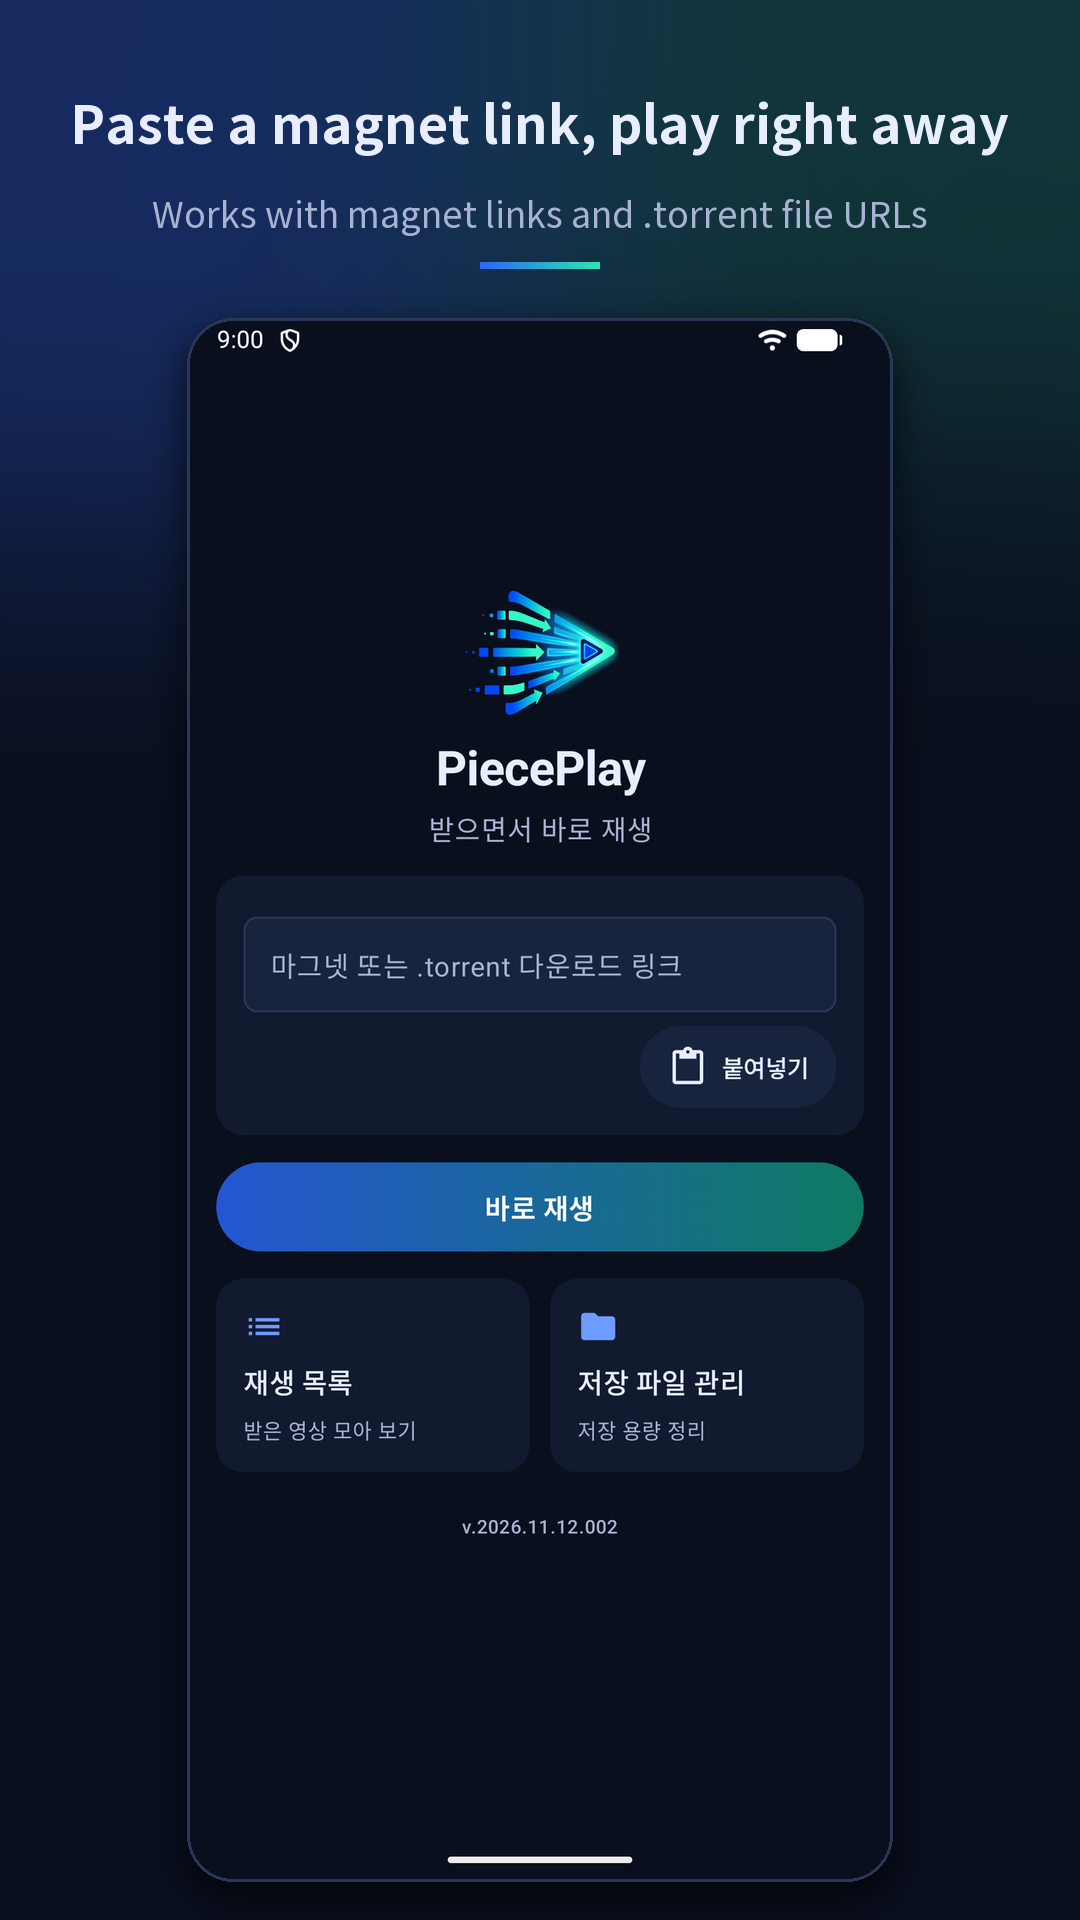
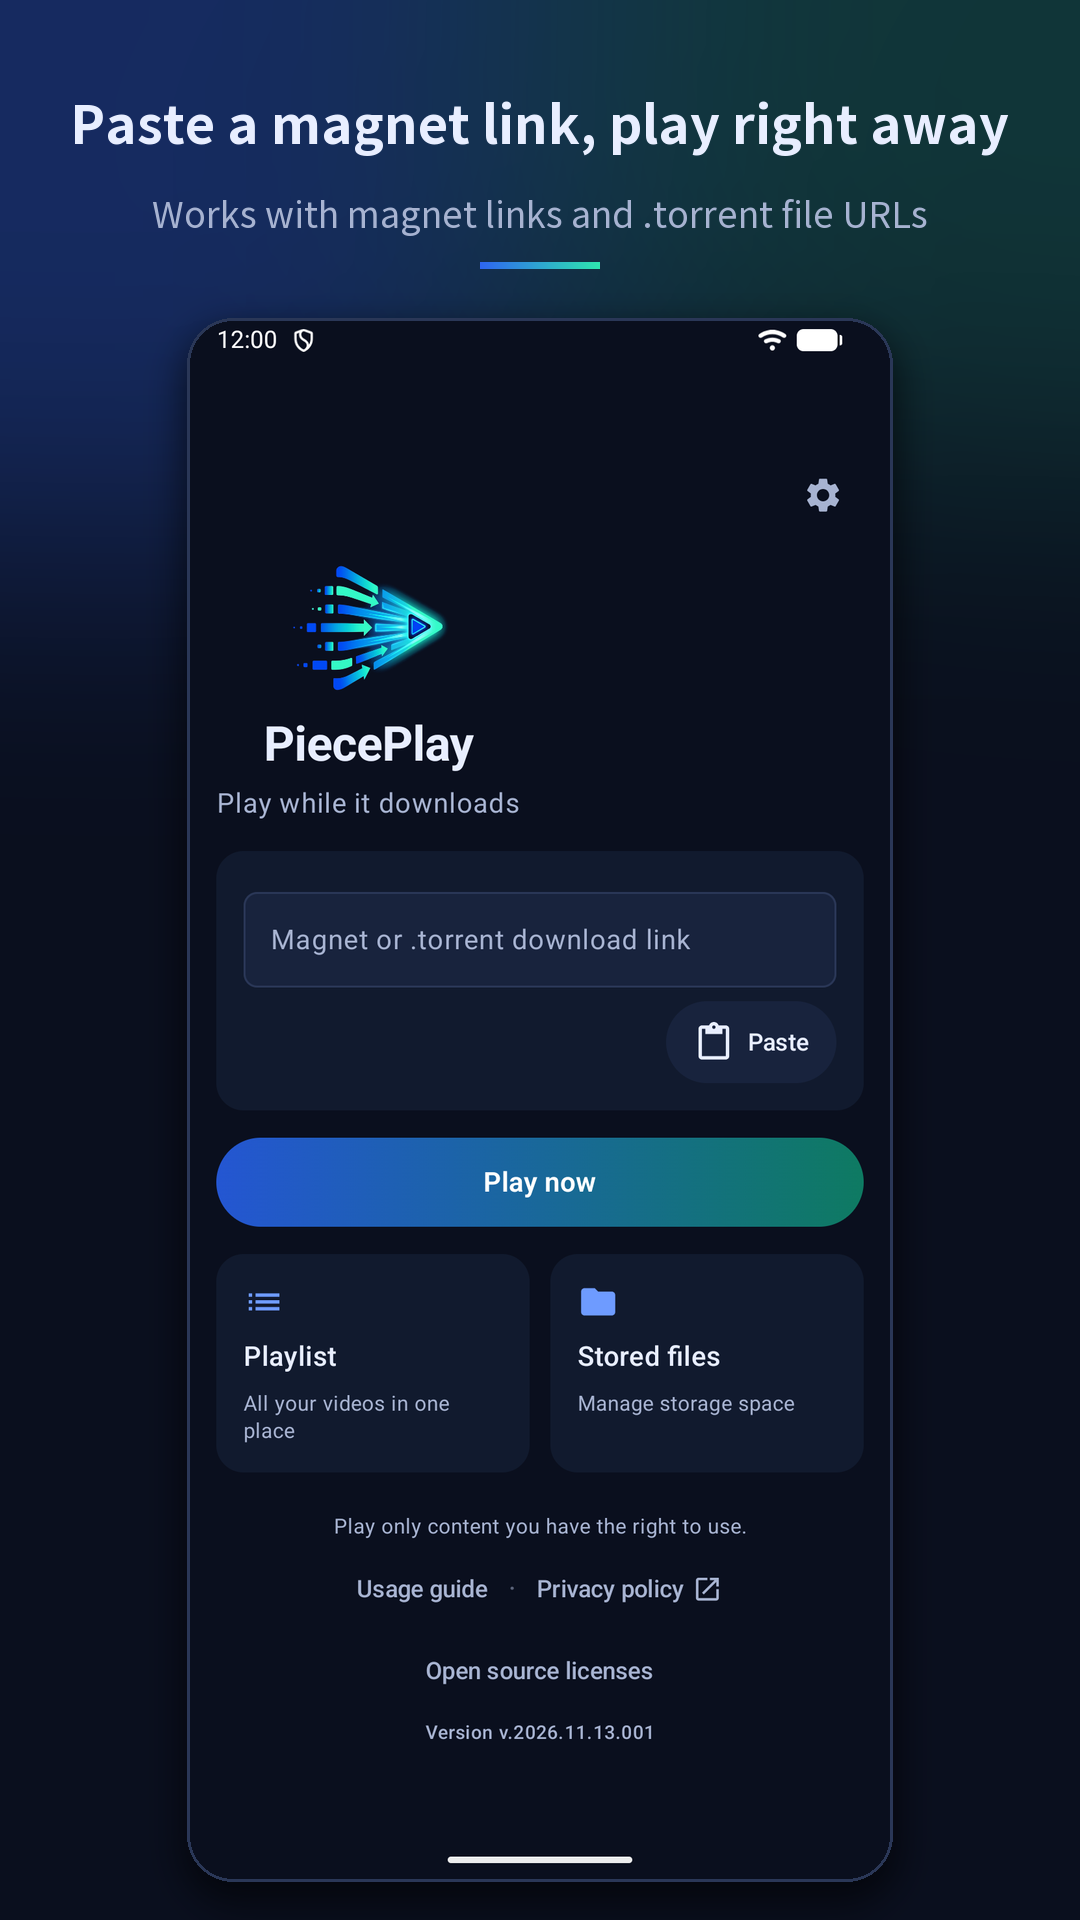
영어 스토어 스크린샷을 영어 UI로 재촬영: 휴대전화·7인치·10인치 각 8장 (Refs #144)
- en-US 01~06은 한국어판과 같은 장면, 07 링크 확인 시트, 08 자막 선택 추가
- 원본은 raw-en-US/, screens.py에 언어별 원본 폴더와 추가 장면
- README, en-US 등록정보, 1차 글로벌 체크리스트 2절 갱신

diff --git a/launch/store-assets/tools/screens.py b/launch/store-assets/tools/screens.py
@@ -35,6 +35,21 @@ CAPTIONS = {'ko-KR': {
     'player_seek': ('Seek, and it downloads from there', '10-second skip · zoom in · zoom out'),
     'playlist': ('Pick up where you left off', 'Your last 50 links, encrypted on your device'),
     'stored': ('No uploads. History stays on device', 'Browse saved files by type and delete them'),
+    'open_link': ('Open links from other apps', 'Play now or save for later'),
+    'subtitles': ('Choose your subtitles', 'Pick subtitle files that come with the video'),
+}}
+
+# 언어별 원본 폴더 이름(대상 폴더 아래). 없으면 raw. en-US 는 영어 UI 로 다시 찍은 원본을 쓴다(#144).
+RAW_DIRS = {'en-US': 'raw-en-US'}
+
+# 언어별 추가 장면(기본 6장 뒤에 붙는다): 대상 -> [(출력 파일, 원본 파일, 캡션 키, 캔버스 W, H)]
+EXTRA = {'en-US': {
+    'phone': [('07_open_link.png', 'open-link.png', 'open_link', 1080, 1920),
+              ('08_subtitles.png', 'subtitles.png', 'subtitles', 1080, 1920)],
+    'tab7': [('07_open_link.png', 'open-link.png', 'open_link', 1080, 1920),
+             ('08_subtitles.png', 'subtitles.png', 'subtitles', 1080, 1920)],
+    'tab10': [('07_open_link.png', 'open-link.png', 'open_link', 2560, 1440),
+              ('08_subtitles.png', 'subtitles.png', 'subtitles', 2560, 1440)],
 }}
 
 # 대상별: 출력 폴더, 원본 폴더, [(출력 파일, 원본 파일, 캡션 키, 캔버스 W, H)]
@@ -146,7 +161,8 @@ def main():
         out_tpl, raw_dir, items = TARGETS[name]
         out_dir = out_tpl.format(lang=lang)
         os.makedirs(os.path.join(root, out_dir), exist_ok=True)
-        for out, raw, key, W, H in items:
+        raw_dir = os.path.join(os.path.dirname(raw_dir), RAW_DIRS.get(lang, 'raw'))
+        for out, raw, key, W, H in items + EXTRA.get(lang, {}).get(name, []):
             src = os.path.join(root, raw_dir, raw)
             if not os.path.exists(src):
                 print('skip (no raw):', src)

diff --git a/launch/store-assets/README.md b/launch/store-assets/README.md
@@ -11,13 +11,14 @@ Play Console > 스토어 등록정보 > 기본 스토어 등록정보(또는 ko-
 | 앱 아이콘 | `1_Play_Store_Assets/app_icon_512x512.png` | 같은 파일 | 512x512 PNG | 512x512, 32비트 PNG, 1MB 이하, 필수. 지금 Console 아이콘과 같아 그대로 둔다 |
 | 그래픽 이미지 | `1_Play_Store_Assets/feature_graphic_1024x500_ko-KR.png` | `1_Play_Store_Assets/feature_graphic_1024x500_en-US.png` | 1024x500 PNG, 알파 없음 | 1024x500, JPEG 또는 24비트 PNG(알파 없음), 필수 |
 | 동영상 | `7_Promo_Video/PiecePlay_promo_ko-KR.mp4`를 YouTube에 올린 URL | `7_Promo_Video/PiecePlay_promo_en-US.mp4`를 올린 URL | 1920x1080, 30초 | YouTube 동영상 URL만, 공개 또는 일부공개, 광고 끔. 업로드 방법은 `7_Promo_Video/README.md` |
-| 휴대전화 스크린샷 | `4_Play_Store_Screenshots/ko-KR/01~06` | `4_Play_Store_Screenshots/en-US/01~06` | 1080x1920, `03`만 1920x1080 | 2~8장, 변 320~3840px, 긴 변 ≤ 짧은 변 x2, 추천 노출은 1080px 이상 4장 이상 |
-| 7인치 태블릿 | `5_Tablet_7in/ko-KR/01~06` | `5_Tablet_7in/en-US/01~06` | 1080x1920, `03`만 1920x1080 | 대화면: 변 1080~7680px, 9:16 또는 16:9, 4장 이상, 선택 |
-| 10인치 태블릿 | `6_Tablet_10in/ko-KR/01~06` | `6_Tablet_10in/en-US/01~06` | 2560x1440 | 위와 같음 |
+| 휴대전화 스크린샷 | `4_Play_Store_Screenshots/ko-KR/01~06` | `4_Play_Store_Screenshots/en-US/01~08` | 1080x1920, `03`만 1920x1080 | 2~8장, 변 320~3840px, 긴 변 ≤ 짧은 변 x2, 추천 노출은 1080px 이상 4장 이상 |
+| 7인치 태블릿 | `5_Tablet_7in/ko-KR/01~06` | `5_Tablet_7in/en-US/01~08` | 1080x1920, `03`만 1920x1080 | 대화면: 변 1080~7680px, 9:16 또는 16:9, 4장 이상, 선택 |
+| 10인치 태블릿 | `6_Tablet_10in/ko-KR/01~06` | `6_Tablet_10in/en-US/01~08` | 2560x1440 | 위와 같음 |
 | Chromebook | 비움 | 비움 | | 위와 같음, 선택 |
 
 - 현재 Console 기본 등록정보(en-US)에는 로고만 있는 옛 그래픽 이미지와 옛 이름 "Torrent Stream Player"의 휴대전화 스크린샷 2장이 있다. 둘 다 위 en-US 파일로 바꾼다(옛 스크린샷 2장은 삭제).
-- 영어 스크린샷도 앱 화면은 한국어다(앱이 한국어만 지원). 영어 설명에 그 사실을 적는다(`launch/listing/en-US.md`).
+- 영어(en-US) 스크린샷은 2026-11-14에 영어 UI로 다시 찍었다(#144, 아래 "영어 UI 재촬영"). 한국어(ko-KR) 스크린샷은 그대로다(예전 빌드 화면).
+- 영어는 8장이다. `01~06`은 한국어와 같은 장면·순서이고 `07`(다른 앱에서 링크 열기), `08`(자막 선택)을 더했다. Play 휴대전화 한도가 8장이다. 6장만 올리려면 `07`, `08`을 빼면 된다.
 
 규격 출처: [Play Console 고객센터 "미리보기 애셋 추가"](https://support.google.com/googleplay/android-developer/answer/9866151?hl=ko) (2026-11-12 확인). 그 밖의 요구: 실제 앱 화면을 보여 줄 것, "지금 다운로드" 같은 행동 유도 문구 금지, 문구가 이미지의 20%를 넘지 않을 것, 각 애셋에 140자 이하 대체 텍스트 권장.
 
@@ -47,7 +48,11 @@ Play Console > 스토어 등록정보 > 기본 스토어 등록정보(또는 ko-
 | 4 | Seek, and it downloads from there | 10-second skip · zoom in · zoom out |
 | 5 | Pick up where you left off | Your last 50 links, encrypted on your device |
 | 6 | No uploads. History stays on device | Browse saved files by type and delete them |
+| 7 (영어만) | Open links from other apps | Play now or save for later |
+| 8 (영어만) | Choose your subtitles | Pick subtitle files that come with the video |
 
+- 7·8번 캡션은 launch가 등록정보 문구(`launch/listing/en-US.md`의 "Open links from other apps", "Subtitles" 단락)에서 따 왔다. marketing 검토(`marketing:brand-review`)는 아직 거치지 않았다.
+- 4번 보조 문구의 zoom in · zoom out은 지금 빌드에서 재생 화면 더보기(⋮) 메뉴 안에 있어 화면에 바로 보이지는 않는다(기능은 있다).
 - 예전 4번 보조 문구 "10초 이동 · 확대 · 배속 조절"의 배속 조절은 앱에 없는 기능이라 뺐다.
 - 3번 "재생 중에는 광고 없이"는 사실이다(배너는 메인·재생 목록, 전면 광고는 재생 종료·완료 때만). 광고 정책이 바뀌면 이 캡션도 바꿔야 한다. 이 표현을 쓸지는 `marketing/aso/ko-KR.md` "결정 필요" 2번으로 PM이 정한다.
 - 그래픽 이미지: 한국어 "받으면서 바로 재생" / "다 받기 전에 재생하는 토렌트 플레이어", 영어 "Play while it downloads" / "Paste a magnet link and play right away". 앱 이름 `PiecePlay - 토렌트 플레이어`와 같은 키워드를 쓰고, "바로"가 두 줄에 겹치던 것을 고쳤다.
@@ -59,6 +64,24 @@ Play Console > 스토어 등록정보 > 기본 스토어 등록정보(또는 ko-
 | `4_Play_Store_Screenshots/raw/` | emulator-5554, 1080x2400 420dpi | v.2026.11.12.002 디버그 (#49) | 이번에 다시 찍지 않았다 |
 | `5_Tablet_7in/raw/` | AVD `Tablet_7in`(Nexus 7 2013 규격), 1200x1920 320dpi, Android 37 | v.2026.11.12.003 디버그 (main 5c8c305) | 세로, 재생만 가로 하나 |
 | `6_Tablet_10in/raw/` | AVD `Tablet_10in`(Nexus 10 규격), 2560x1600(가로) 320dpi, Android 37 | 같음 | 모두 가로 |
+
+### 영어 UI 재촬영 (2026-11-14, #144)
+
+| 폴더 | 기기 | 빌드 |
+|---|---|---|
+| `4_Play_Store_Screenshots/raw-en-US/` | emulator-5554(AVD `Medium_Phone`), 1080x2400 420dpi, 시스템 언어 en-US | v.2026.11.13.001 디버그 (main 667c06e) |
+| `5_Tablet_7in/raw-en-US/` | 같은 에뮬레이터에 `wm size 1200x1920`, `wm density 320` | 같음 |
+| `6_Tablet_10in/raw-en-US/` | 같은 에뮬레이터에 `wm size 1600x2560`, `wm density 320`, `wm user-rotation lock 1`(가로 2560x1600) | 같음 |
+
+- 원본 파일: `main`, `preparing`, `player-landscape`(10인치는 `player`), `player`(10인치는 `player-seek`), `playlist`, `stored-files`, `open-link`, `subtitles`.
+- 영상: 준비·가로 재생·자막은 Sintel, 이동 장면은 Tears of Steel(10인치는 Sintel), 재생 목록·저장 파일에 Big Buck Bunny. 링크 확인 시트의 마그넷은 Tears of Steel(휴대전화)·Cosmos Laundromat(태블릿)이다. 모두 Blender Foundation 오픈 무비(CC BY).
+- 테스트 광고 배너를 피하는 방법은 예전과 같다: 메인·재생 목록·저장 파일·링크 확인 시트는 와이파이·데이터를 끄고 앱을 새로 열어 찍었다. 재생·준비 화면에는 원래 광고가 없다.
+- 7인치(sw600dp)는 앱의 가로 전환 버튼이 아니라 기기 회전(`wm user-rotation lock 1`)으로 가로 재생을 찍었다.
+- 7인치 `preparing.png`는 데모 모드를 다시 걸기 전에 찍어 상태 표시줄에 와이파이 아이콘이 두 개였다. 상태 표시줄 오른쪽 아이콘 영역(240x48px)만 같은 빌드의 7인치 `main.png` 것으로 덮었다. 앱 화면 영역은 손대지 않았다.
+- 메인 화면의 로고·앱 이름·태그라인이 가운데가 아니라 왼쪽으로 치우쳐 있다. 지금 main 빌드의 실제 화면이다(`MainScreen.kt`에서 톱니 줄과 로고 묶음 Column에 가로 정렬이 없다, #128 이후). 앱이 고쳐지면 `01_main`과 `07_open_link`를 다시 찍는다.
+- 찍은 뒤 에뮬레이터는 되돌렸다(`wm size reset`, `wm density reset`, 회전 자동, 데모 모드 종료, 앱 제거).
+
+### 한국어 원본(예전)
 
 - 상태 표시줄은 데모 모드(12:00, 와이파이·배터리 가득, 알림 숨김)로 찍었다.
 - 메인·재생 목록·저장 파일 관리는 와이파이·데이터를 끄고 앱을 다시 열어 찍었다. 디버그 빌드의 테스트 광고 배너가 들어가지 않게 하려는 것이다(릴리스 빌드에서는 메인·재생 목록 하단에 배너가 나온다).
@@ -77,5 +100,5 @@ Play Console > 스토어 등록정보 > 기본 스토어 등록정보(또는 ko-
 
 `tools/`의 스크립트(Python + Pillow, Windows의 Noto Sans KR 가변 글꼴 `NotoSansKR-VF.ttf`. 맑은 고딕은 작은 크기에서 "받"이 깨져 쓰지 않는다)로 만든다. Pillow가 없으면 `uv run --no-project --with pillow python ...`로 실행한다.
 
-- `screens.py <store-assets 폴더> <ko-KR|en-US|all> [phone|tab7|tab10]`: 각 `raw/` 원본으로 휴대전화·7인치·10인치 스크린샷을 만든다. 캡션과 파일 대응은 스크립트 위쪽 `CAPTIONS`, `TARGETS`에 있다. 원본은 비율을 유지한 채 틀 안에 맞춘다.
+- `screens.py <store-assets 폴더> <ko-KR|en-US|all> [phone|tab7|tab10]`: 각 `raw/` 원본(en-US는 `raw-en-US/`, 스크립트의 `RAW_DIRS`)으로 휴대전화·7인치·10인치 스크린샷을 만든다. 캡션과 파일 대응은 스크립트 위쪽 `CAPTIONS`, `TARGETS`, `EXTRA`(언어별 추가 장면)에 있다. 원본은 비율을 유지한 채 틀 안에 맞춘다.
 - `feature.py <적응형 아이콘 전경 png> <출력> [ko-KR|en-US]`: 그래픽 이미지(`2_Android_Adaptive_Icon/ic_launcher_foreground.png` 사용)

diff --git a/launch/releases/global-phase1-checklist.md b/launch/releases/global-phase1-checklist.md
@@ -16,7 +16,7 @@
 | # | 항목 | 판정 | 한 줄 |
 |---|---|---|---|
 | 1 | Play Console 국가 추가 | 할 일 | Production > Countries / regions에서 7개국 추가 → Publishing overview에서 검토 제출 |
-| 2 | 영어 등록정보(en-US) | 통과(문구) / 선행 조건(스크린샷) | 문구는 영어 UI 기준으로 고쳤고 금지 표현 없음. **스크린샷 속 앱 화면이 아직 한국어**라 재촬영 필요(별도 요청 예정) |
+| 2 | 영어 등록정보(en-US) | 통과(문구·스크린샷) / 선행 조건(홍보 영상) | 문구는 영어 UI 기준으로 고쳤고 금지 표현 없음. 스크린샷은 2026-11-14 영어 UI로 재촬영. **홍보 영상(en-US) 속 앱 화면은 아직 한국어** |
 | 3 | AdMob·UMP 동의 | 권장 | 1차 국가에는 필수 메시지가 없다. 미국 주 메시지 게시 권장. 유럽 메시지는 3차 전에 |
 | 4 | 개인정보처리방침 영어판 | 할 일 | Notion에 영어 없음. 초안 [`listing/privacy-policy-en.md`](../listing/privacy-policy-en.md) |
 | 5 | 데이터 보안·등급·타깃 연령 | 통과(변경 없음) | 셋 다 국가별 양식이 아니다. 등급은 국가별 기관 등급이 자동 부여 |
@@ -71,8 +71,8 @@
 | 자료 | 판정 | 내용 |
 |---|---|---|
 | `1_Play_Store_Assets/feature_graphic_1024x500_en-US.png` | 통과(파일 존재) | 영어 그래픽 |
-| `4_Play_Store_Screenshots/en-US/` 6장, `5_Tablet_7in/en-US`, `6_Tablet_10in/en-US` | **선행 조건** | 위 제목 글자는 영어지만 **휴대폰 안 앱 화면은 한국어**다(예: `01_main.png`의 "바로 재생", "재생 목록", 버전 v.2026.11.12.002). 영어 UI로 다시 찍어야 등록정보가 실제 앱과 맞는다(메타데이터 정책). 설정·자막·링크 확인 시트 장면 추가도 검토. **이번에는 하지 않음**(에뮬레이터 사용 중, PM이 별도 요청 예정) |
-| `7_Promo_Video/PiecePlay_promo_en-US.mp4` | 사용자 확인 필요 | 영상 속 화면 언어를 확인하지 않았다. 한국어 화면이면 재촬영 때 같이 다시 만든다 |
+| `4_Play_Store_Screenshots/en-US/` 8장, `5_Tablet_7in/en-US` 8장, `6_Tablet_10in/en-US` 8장 | 통과(2026-11-14 재촬영) | 영어 UI(v.2026.11.13.001 디버그, main 667c06e)로 다시 찍었다. `01~06`은 한국어판과 같은 장면이고 `07` 링크 확인 시트, `08` 자막 선택을 더했다. 한국어·테스트 광고·개인정보 없음(전수 확인). 주의: 메인 화면 로고가 왼쪽으로 치우친 것은 지금 앱의 실제 화면이다(앱 수정 뒤 `01`, `07` 재촬영). 자세한 내용은 `store-assets/README.md` "영어 UI 재촬영" |
+| `7_Promo_Video/PiecePlay_promo_en-US.mp4` | **선행 조건** | 2026-11-14 확인: 자막만 영어이고 영상 속 앱 화면은 한국어(3·9·25초 프레임, v.2026.11.12.003). 영어 등록정보의 동영상 칸에 넣으려면 영어 UI로 다시 녹화해야 한다. 그 전에는 en-US 동영상 칸을 비워 둔다 |
 
 ### en-GB·en-IN 등 따로 둘 필요가 있나
 

diff --git a/launch/listing/en-US.md b/launch/listing/en-US.md
@@ -10,7 +10,8 @@
 - 앱 화면이 이제 영어로 나오므로(기기 언어가 한국어가 아니면 영어) "한국어만 지원" 문장은 지웠다.
 - 저작권 안내 한 줄과 스크린샷 영상 출처(CC BY) 한 줄을 설명 끝에 둔다.
 - 피하는 표현(`marketing/CLAUDE.md`): 영화·드라마 제목, 토렌트 사이트 이름, "free movies", "latest releases", "unlimited downloads". 아래 문안에 없다(2026-11-13 점검). Sintel·Big Buck Bunny·Tears of Steel은 스크린샷 출처 표기라 해당하지 않는다.
-- 스크린샷: `launch/store-assets/*/en-US`의 휴대폰 화면은 아직 **한국어 UI**다. 영어 UI로 다시 찍기 전에는 등록정보와 앱 화면이 다르다(재촬영은 별도 요청 예정).
+- 스크린샷: `launch/store-assets/*/en-US`는 2026-11-14에 **영어 UI**(v.2026.11.13.001 디버그, main 667c06e)로 다시 찍었다. 휴대전화·7인치·10인치 각 8장(`01~06`은 한국어판과 같은 장면, `07` 다른 앱에서 링크 열기, `08` 자막 선택). 화면에 나오는 영상은 Sintel, Big Buck Bunny, Tears of Steel이라 아래 출처 문장과 맞는다. 태블릿 링크 확인 시트의 마그넷(해시만 보임)은 Cosmos Laundromat(같은 Blender Foundation, CC BY)이다.
+- 홍보 영상 `7_Promo_Video/PiecePlay_promo_en-US.mp4`는 자막만 영어이고 영상 속 앱 화면은 **한국어 UI**(v.2026.11.12.003)다(3·9·25초 프레임 확인). 영어 등록정보의 동영상 칸에 넣으려면 다시 만들어야 한다.
 
 ## 앱 이름 (30자 이내)
 
